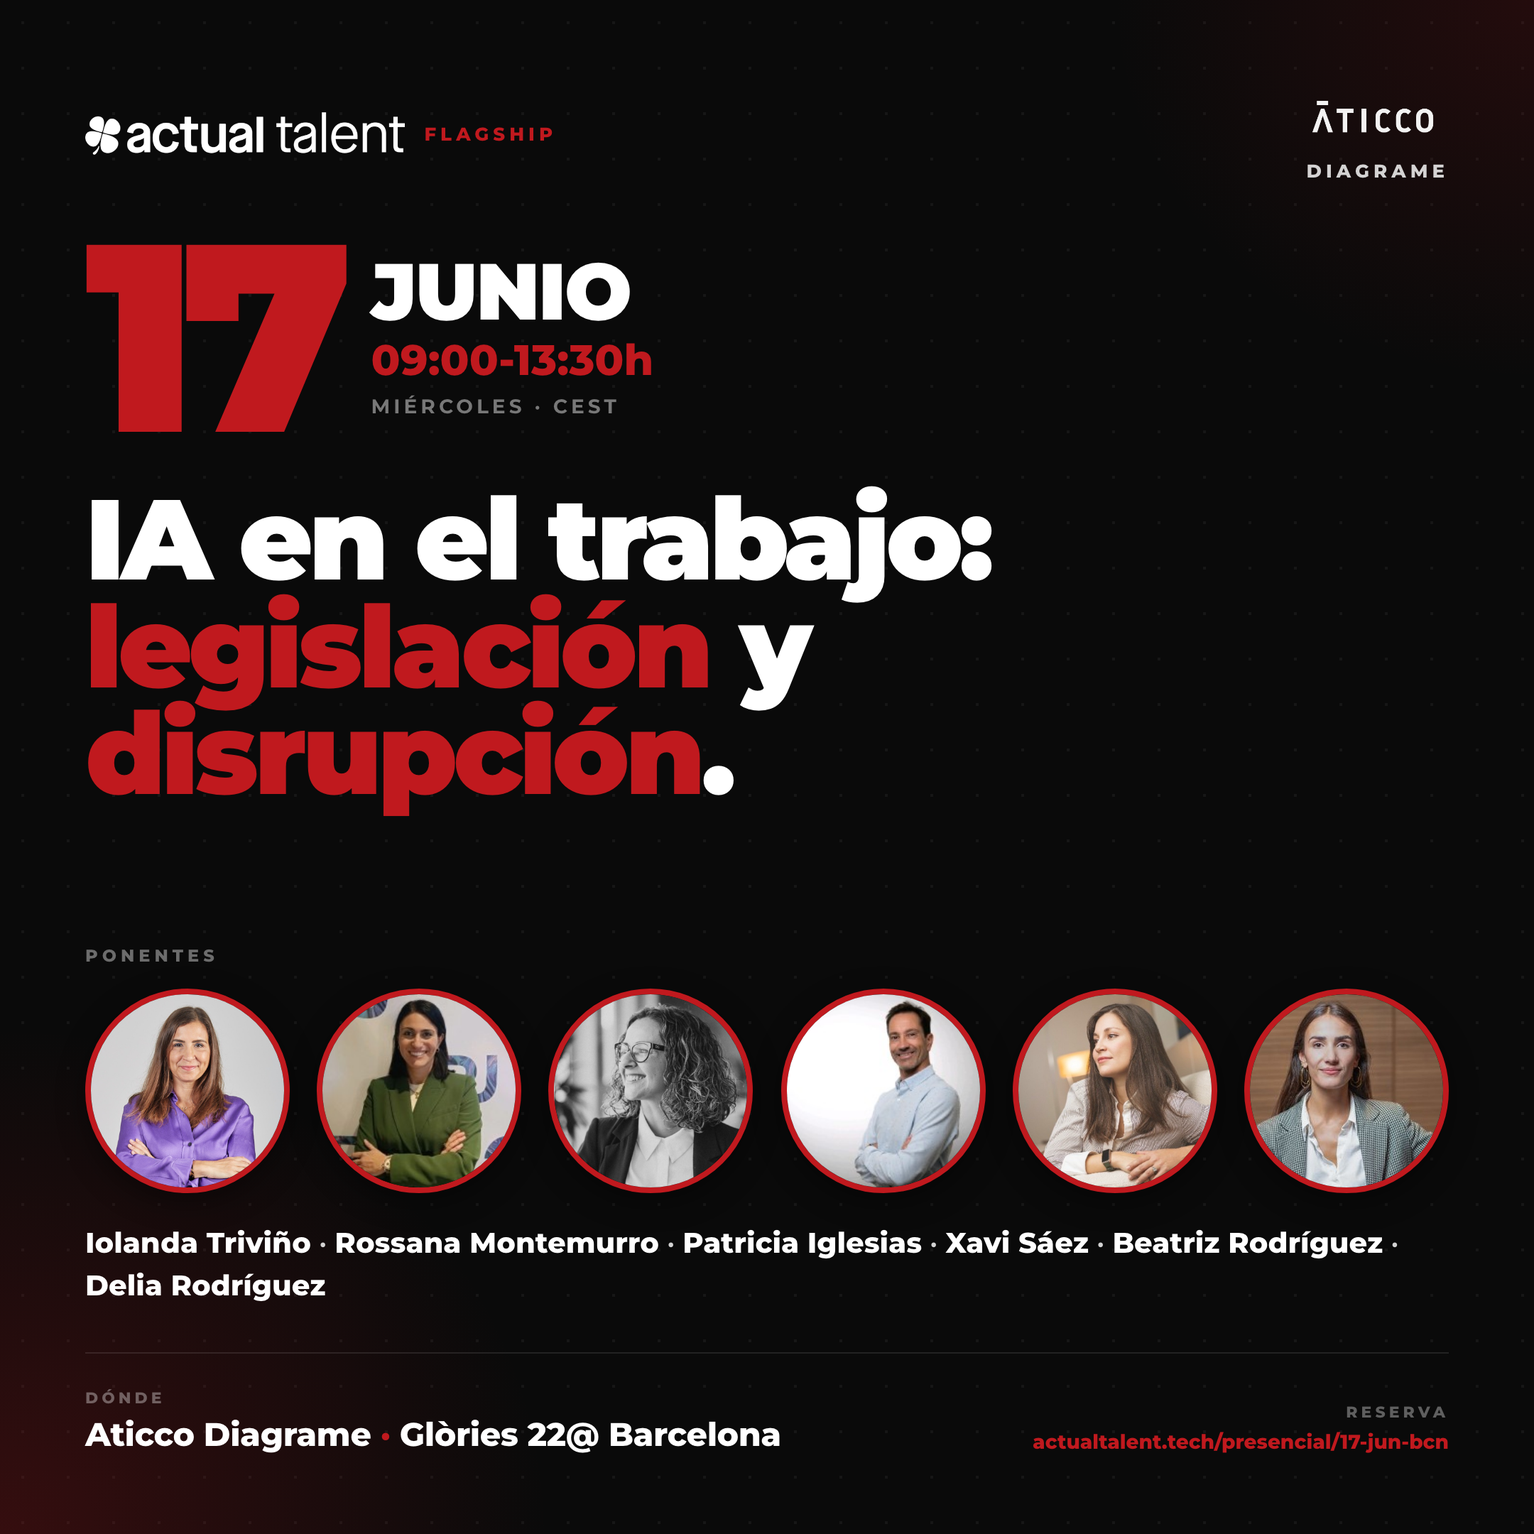
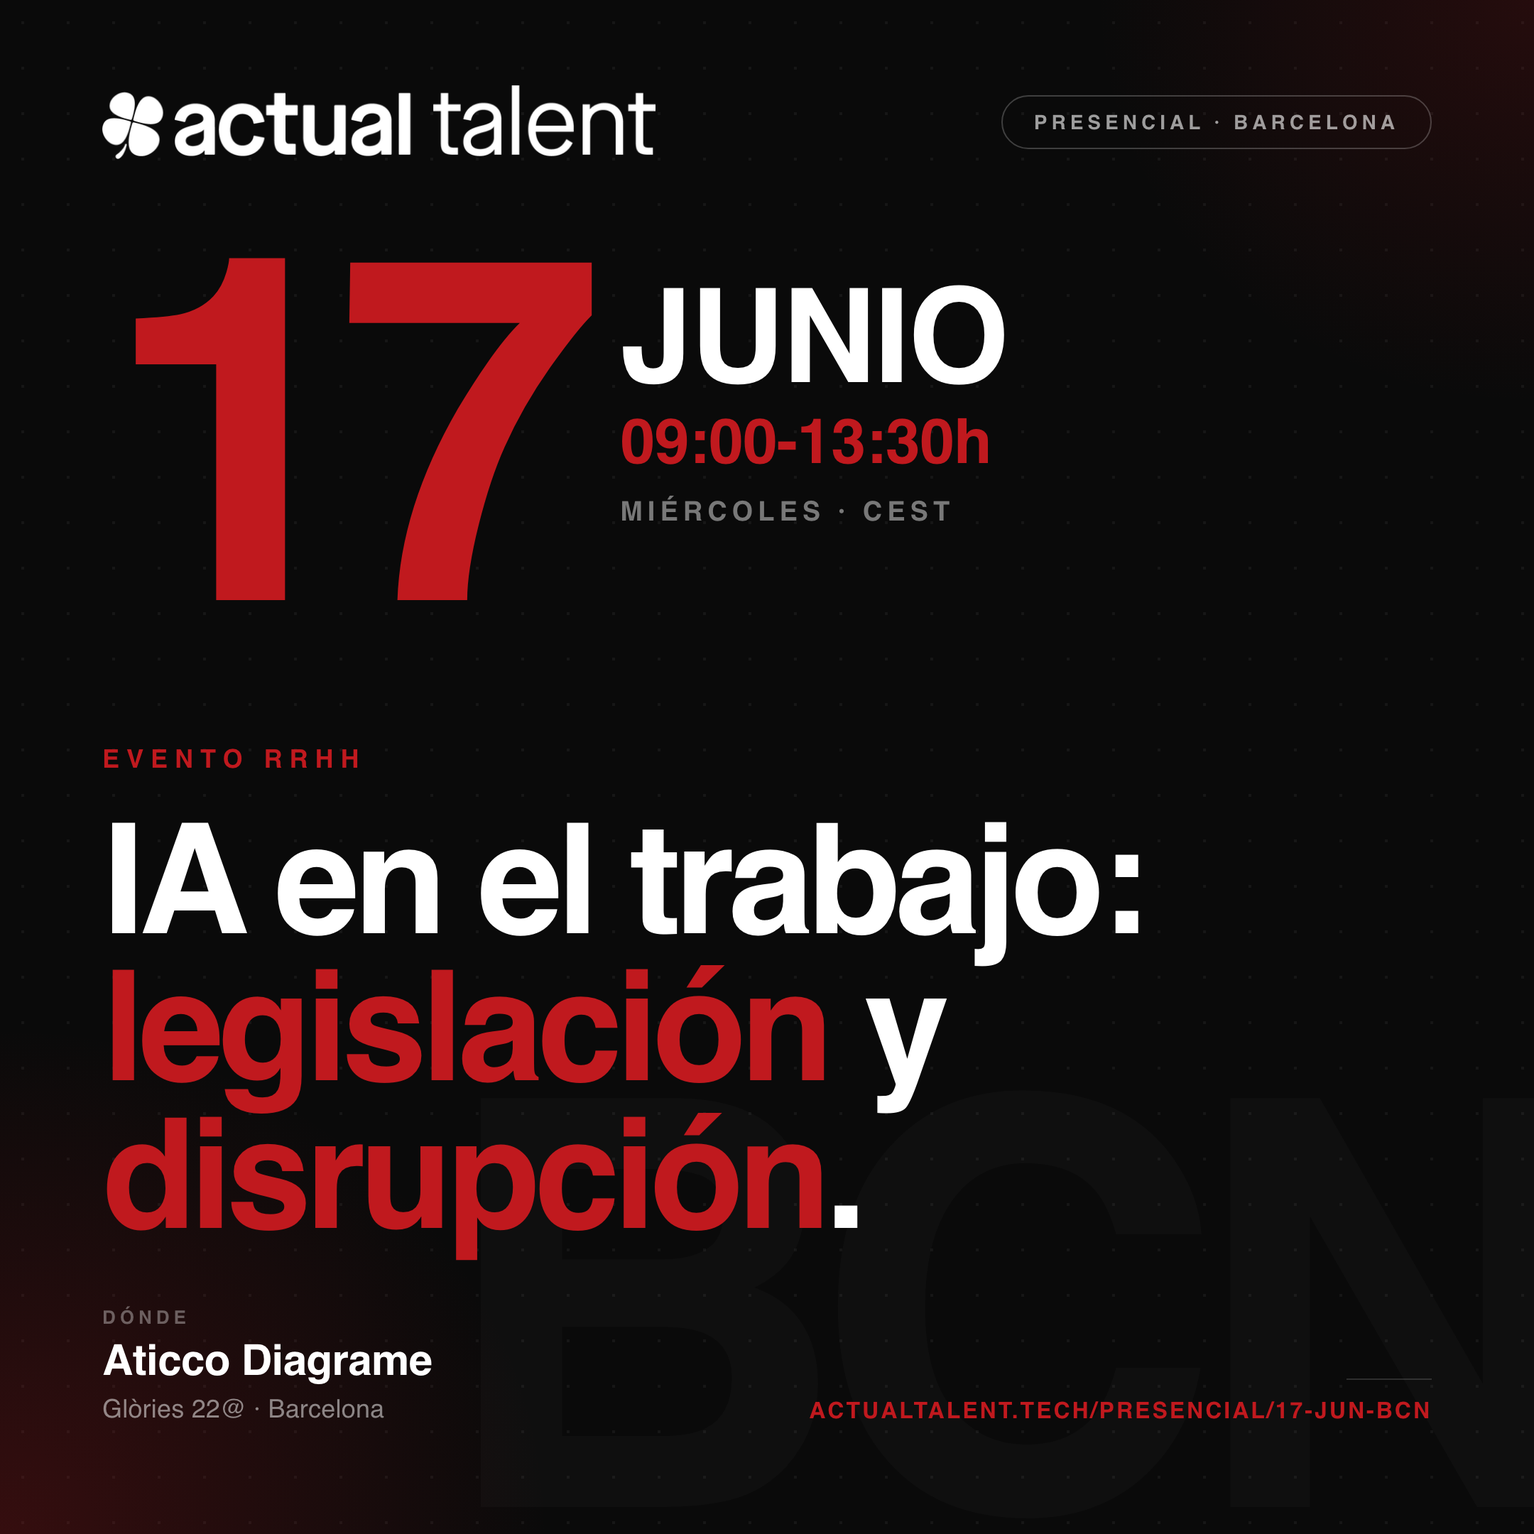
session-end: 4 files (2026-06-09 07:09)

diff --git a/presencial/17-jun-bcn/flyer-square/index.html b/presencial/17-jun-bcn/flyer-square/index.html
@@ -2,98 +2,84 @@
 <html lang="es">
 <head>
 <meta charset="UTF-8">
+<meta name="viewport" content="width=device-width, initial-scale=1.0">
 <title>Flyer 1080×1080 · IA en el trabajo: Legislación y disrupción · 17 jun 2026 · Barcelona</title>
 <link rel="preconnect" href="https://fonts.googleapis.com">
 <link href="https://fonts.googleapis.com/css2?family=Montserrat:wght@400;500;600;700;800;900&display=swap" rel="stylesheet">
 <style>
 *,*::before,*::after{box-sizing:border-box;margin:0;padding:0}
 :root{--red:#C0191E;--black:#1A1A1A;--near-black:#0A0A0A;--white:#fff}
-body{font-family:'Montserrat',sans-serif;background:#000;-webkit-font-smoothing:antialiased;display:flex;align-items:center;justify-content:center;min-height:100vh}
+body{font-family:'Montserrat',sans-serif;background:#1A1A1A;-webkit-font-smoothing:antialiased;min-height:100vh;display:flex;align-items:center;justify-content:center;padding:20px}
 .flyer{width:1080px;height:1080px;flex-shrink:0;position:relative;overflow:hidden;background:var(--near-black);
-  background-image:radial-gradient(circle,rgba(255,255,255,.05) 1.2px,transparent 1.2px);background-size:32px 32px;color:var(--white)}
-@media (max-width:1120px),(max-height:1120px){body{padding:0}.flyer{transform:scale(min(calc(100vw/1080),calc(100vh/1080)));transform-origin:center}}
+  background-image:radial-gradient(circle,rgba(255,255,255,.05) 1.2px,transparent 1.2px);background-size:32px 32px;color:var(--white);transform-origin:center}
+@media (max-width:1120px),(max-height:1120px){body{padding:0;background:#000}.flyer{transform:scale(min(calc(100vw/1080),calc(100vh/1080)))}}
+/* ATMOSPHERE */
 .flyer::before{content:'';position:absolute;inset:0;background:
   radial-gradient(ellipse 65% 60% at 0% 100%,rgba(192,25,30,.24) 0%,transparent 55%),
-  radial-gradient(ellipse 50% 45% at 100% 0%,rgba(192,25,30,.14) 0%,transparent 55%);pointer-events:none;z-index:1}
-.wrap{position:absolute;inset:0;z-index:5;padding:60px 60px 56px;display:flex;flex-direction:column}
-.topbar{display:flex;align-items:center;justify-content:space-between}
-.brand{display:flex;align-items:center;gap:14px}
-.at-logo{width:48px;height:48px;border-radius:11px;background:var(--red);display:flex;align-items:center;justify-content:center;font-size:16px;font-weight:900;letter-spacing:1px}
-.brand-text{font-size:14px;font-weight:800;letter-spacing:3px;text-transform:uppercase}
-.brand-text .sep{color:rgba(255,255,255,.25);margin:0 9px}.brand-text .t{color:var(--red)}
-.brand-logo{height:30px;width:auto;display:block}
-.brand-tag{font-size:13px;font-weight:800;letter-spacing:3px;text-transform:uppercase;color:var(--red)}
-.tag{font-size:11px;font-weight:800;letter-spacing:2.5px;text-transform:uppercase;color:rgba(255,255,255,.6);border:1px solid rgba(255,255,255,.2);border-radius:100px;padding:7px 15px}
-.venue-credit{display:flex;flex-direction:column;align-items:flex-end;gap:6px}
-.venue-logo{height:46px;width:auto;filter:brightness(0) invert(1);opacity:.95;display:block}
-.venue-name{font-size:13px;font-weight:800;letter-spacing:3px;text-transform:uppercase;color:rgba(255,255,255,.82)}
-.date{display:flex;align-items:center;gap:24px;margin-top:34px}
-.date-num{font-size:188px;font-weight:900;line-height:.8;color:var(--red);letter-spacing:-.06em}
-.date-side{display:flex;flex-direction:column;gap:5px}
-.date-month{font-size:56px;font-weight:900;line-height:.9;text-transform:uppercase;letter-spacing:-.02em}
-.date-time{font-size:30px;font-weight:800;color:var(--red)}
-.date-tz{font-size:14px;font-weight:700;letter-spacing:2.5px;text-transform:uppercase;color:rgba(255,255,255,.45)}
-.title{font-size:80px;font-weight:900;line-height:.94;letter-spacing:-.035em;margin-top:30px}
-.title .a{color:var(--red)}
-.lineup{margin-top:auto;padding-top:30px}
-.lineup-label{font-size:12px;font-weight:800;letter-spacing:3px;text-transform:uppercase;color:rgba(255,255,255,.4);margin-bottom:16px}
-.faces{display:flex;gap:16px;justify-content:space-between}
-.faces .f{width:144px;height:144px;border-radius:50%;overflow:hidden;border:4px solid var(--red);box-shadow:0 6px 20px rgba(0,0,0,.4)}
-.faces .f img{width:100%;height:100%;object-fit:cover;display:block}
-.names{font-size:20px;font-weight:600;color:rgba(255,255,255,.82);margin-top:20px;line-height:1.5;max-width:960px}
-.names b{color:var(--white);font-weight:800}
-.footer{display:flex;align-items:flex-end;justify-content:space-between;margin-top:32px;gap:24px;border-top:1px solid rgba(255,255,255,.1);padding-top:24px}
-.f-label{font-size:11px;font-weight:800;letter-spacing:2.5px;text-transform:uppercase;color:rgba(255,255,255,.35);margin-bottom:5px}
-.f-venue{font-size:23px;font-weight:800;letter-spacing:-.01em}.f-venue .d{color:var(--red)}
-.f-cta{text-align:right}.f-url{font-size:14px;font-weight:800;color:var(--red)}
+  radial-gradient(ellipse 52% 48% at 100% 0%,rgba(192,25,30,.15) 0%,transparent 55%);pointer-events:none;z-index:1}
+/* WATERMARK */
+.flyer::after{content:'BCN';position:absolute;bottom:-4%;right:-2%;font-size:400px;font-weight:900;letter-spacing:-.06em;
+  color:rgba(255,255,255,.025);line-height:1;pointer-events:none;user-select:none;z-index:1}
+/* TOP BAR */
+.topbar{position:absolute;top:60px;left:72px;right:72px;display:flex;align-items:center;justify-content:space-between;z-index:10}
+.brand-logo{height:52px;width:auto;display:block}
+.format-tag{font-size:14px;font-weight:800;letter-spacing:3px;text-transform:uppercase;color:rgba(255,255,255,.6);
+  border:1px solid rgba(255,255,255,.22);border-radius:100px;padding:10px 22px}
+/* DATE BLOCK */
+.date-block{position:absolute;top:166px;left:72px;display:flex;align-items:flex-start;gap:34px;z-index:5}
+.date-num{font-size:340px;font-weight:900;line-height:.82;color:var(--red);letter-spacing:-.07em}
+.date-side{display:flex;flex-direction:column;padding-top:30px;gap:10px}
+.date-month{font-size:92px;font-weight:900;line-height:.9;color:var(--white);letter-spacing:-.02em;text-transform:uppercase}
+.date-time{font-size:44px;font-weight:800;color:var(--red);letter-spacing:-.01em;line-height:1}
+.date-tz{font-size:19px;font-weight:700;letter-spacing:3.5px;text-transform:uppercase;color:rgba(255,255,255,.45);margin-top:6px}
+/* TITLE */
+.title-wrap{position:absolute;top:524px;left:72px;right:72px;z-index:5}
+.title-eyebrow{font-size:18px;font-weight:800;letter-spacing:5px;text-transform:uppercase;color:var(--red);margin-bottom:24px}
+.title{font-size:108px;font-weight:900;line-height:.96;letter-spacing:-.04em;color:var(--white)}
+.title .accent{color:var(--red)}
+/* FOOTER */
+.venue{position:absolute;bottom:78px;left:72px;z-index:5;display:flex;flex-direction:column;gap:7px}
+.venue-label{font-size:13px;font-weight:800;letter-spacing:3px;text-transform:uppercase;color:rgba(255,255,255,.35)}
+.venue-name{font-size:30px;font-weight:800;color:var(--white);letter-spacing:-.01em;line-height:1.08}
+.venue-addr{font-size:18px;font-weight:500;color:rgba(255,255,255,.5);letter-spacing:.1px}
+.cta{position:absolute;bottom:78px;right:72px;text-align:right;z-index:5;display:flex;flex-direction:column;align-items:flex-end;gap:8px}
+.cta-divider{width:60px;height:1px;background:rgba(255,255,255,.15);margin-bottom:4px}
+.cta-url{font-size:16px;font-weight:800;letter-spacing:1.5px;color:var(--red);text-transform:uppercase}
 </style>
 </head>
 <body>
 <div class="flyer">
-  <div class="wrap">
-    <div class="topbar">
-      <div class="brand"><img class="brand-logo" src="../../../assets/logos/actual-talent-white.png" alt="Actual Talent"><span class="brand-tag">Flagship</span></div>
-      <div class="venue-credit">
-        <img class="venue-logo" src="../../../assets/logos/aticco.png" alt="Aticco">
-        <div class="venue-name">Diagrame</div>
-      </div>
-    </div>
 
-    <div class="date">
-      <div class="date-num">17</div>
-      <div class="date-side">
-        <div class="date-month">Junio</div>
-        <div class="date-time">09:00-13:30h</div>
-        <div class="date-tz">Miércoles · CEST</div>
-      </div>
-    </div>
+  <div class="topbar">
+    <img class="brand-logo" src="../../../assets/logos/actual-talent-white.png" alt="Actual Talent">
+    <div class="format-tag">Presencial · Barcelona</div>
+  </div>
 
-    <h1 class="title">IA en el trabajo:<br><span class="a">legislación</span> y <span class="a">disrupción</span>.</h1>
-
-    <div class="lineup">
-      <div class="lineup-label">Ponentes</div>
-      <div class="faces">
-        <div class="f"><img src="../../../webinar/assets/speakers/iolanda-trivino.jpg"></div>
-        <div class="f"><img src="../../../webinar/assets/speakers/rossana-montemurro.jpg"></div>
-        <div class="f"><img src="../../../webinar/assets/speakers/patricia-iglesias.jpg"></div>
-        <div class="f"><img src="../../../webinar/assets/speakers/xavi-saez.jpg"></div>
-        <div class="f"><img src="../../../webinar/assets/speakers/beatriz-rodriguez.jpg"></div>
-        <div class="f"><img src="../../../webinar/assets/speakers/delia-rodriguez.jpg"></div>
-      </div>
-      <div class="names"><b>Iolanda Triviño</b> · <b>Rossana Montemurro</b> · <b>Patricia Iglesias</b> · <b>Xavi Sáez</b> · <b>Beatriz Rodríguez</b> · <b>Delia Rodríguez</b></div>
-    </div>
-
-    <div class="footer">
-      <div>
-        <div class="f-label">Dónde</div>
-        <div class="f-venue">Aticco Diagrame <span class="d">·</span> Glòries 22@ Barcelona</div>
-      </div>
-      <div class="f-cta">
-        <div class="f-label">Reserva</div>
-        <div class="f-url">actualtalent.tech/presencial/17-jun-bcn</div>
-      </div>
+  <div class="date-block">
+    <div class="date-num">17</div>
+    <div class="date-side">
+      <div class="date-month">Junio</div>
+      <div class="date-time">09:00-13:30h</div>
+      <div class="date-tz">Miércoles · CEST</div>
     </div>
   </div>
+
+  <div class="title-wrap">
+    <div class="title-eyebrow">Evento RRHH</div>
+    <h1 class="title">IA en el trabajo:<br><span class="accent">legislación</span> y<br><span class="accent">disrupción</span>.</h1>
+  </div>
+
+  <div class="venue">
+    <div class="venue-label">Dónde</div>
+    <div class="venue-name">Aticco Diagrame</div>
+    <div class="venue-addr">Glòries 22@ · Barcelona</div>
+  </div>
+
+  <div class="cta">
+    <div class="cta-divider"></div>
+    <div class="cta-url">actualtalent.tech/presencial/17-jun-bcn</div>
+  </div>
+
 </div>
 </body>
 </html>

diff --git a/presencial/17-jun-bcn/flyer-linkedin/index.html b/presencial/17-jun-bcn/flyer-linkedin/index.html
@@ -14,46 +14,41 @@ body{font-family:'Montserrat',sans-serif;background:#000;-webkit-font-smoothing:
   background-image:radial-gradient(circle,rgba(255,255,255,.05) 1.2px,transparent 1.2px);background-size:32px 32px;color:var(--white)}
 @media (max-width:1320px),(max-height:760px){body{padding:0}.flyer{transform:scale(min(calc(100vw/1280),calc(100vh/720)));transform-origin:center}}
 .flyer::before{content:'';position:absolute;inset:0;background:
-  radial-gradient(ellipse 60% 65% at 0% 100%,rgba(192,25,30,.20) 0%,transparent 55%),
-  radial-gradient(ellipse 40% 45% at 100% 0%,rgba(192,25,30,.12) 0%,transparent 55%);pointer-events:none;z-index:1}
-.wrap{position:absolute;inset:0;z-index:5;padding:26px 50px 22px;display:flex;flex-direction:column}
+  radial-gradient(ellipse 60% 65% at 0% 100%,rgba(192,25,30,.22) 0%,transparent 55%),
+  radial-gradient(ellipse 42% 48% at 100% 0%,rgba(192,25,30,.14) 0%,transparent 55%);pointer-events:none;z-index:1}
+.wrap{position:absolute;inset:0;z-index:5;padding:22px 58px;display:flex;flex-direction:column}
 .topbar{display:flex;align-items:center;justify-content:space-between;flex:0 0 auto}
-.brand-mark{display:flex;align-items:center;gap:13px}
-.brand-logo{height:30px;width:auto;display:block}
-.brand-tag{font-size:13px;font-weight:800;letter-spacing:3px;text-transform:uppercase;color:var(--red)}
-.venue-credit{text-align:right;line-height:1.15}
-.venue-logo{height:80px;width:auto;filter:brightness(0) invert(1);opacity:.95;display:block;margin:0 0 8px auto}
+.brand-mark{display:flex;align-items:center;gap:15px;margin-top:-36px}
+.brand-logo{height:40px;width:auto;display:block}
+.venue-credit{text-align:right;line-height:1.1}
+.venue-logo{height:64px;width:auto;filter:brightness(0) invert(1);opacity:.95;display:block;margin:0 0 6px auto}
 .venue-name{font-size:13px;font-weight:800;letter-spacing:3px;text-transform:uppercase;color:rgba(255,255,255,.85)}
-.main{flex:1 1 auto;display:flex;flex-direction:column;justify-content:center;gap:20px;min-height:0}
-.hero{display:flex;gap:40px;align-items:center}
-.date-block{flex-shrink:0}
-.date-num{font-size:80px;font-weight:900;line-height:.8;color:var(--red);letter-spacing:-.05em}
-.date-side{display:flex;flex-direction:column;gap:3px;margin-top:6px}
-.date-month{font-size:28px;font-weight:900;line-height:1;text-transform:uppercase;letter-spacing:-.01em}
-.date-time{font-size:19px;font-weight:800;color:var(--red)}
-.date-tz{font-size:12px;font-weight:700;letter-spacing:2.5px;text-transform:uppercase;color:rgba(255,255,255,.5)}
-.title-wrap{flex:1}
-.eyebrow{font-size:13px;font-weight:800;letter-spacing:4px;text-transform:uppercase;color:var(--red);margin-bottom:10px}
-.title{font-size:47px;font-weight:900;line-height:1.02;letter-spacing:-.035em}
+.main{flex:1 1 auto;display:flex;flex-direction:column;justify-content:space-between;min-height:0;margin-top:-34px}
+.hero{display:flex;gap:30px;align-items:center}
+.date-block{flex-shrink:0;display:flex;align-items:flex-start;gap:16px}
+.date-num{font-size:152px;font-weight:900;line-height:.76;color:var(--red);letter-spacing:-.06em}
+.date-side{display:flex;flex-direction:column;gap:6px;margin-top:10px}
+.date-month{font-size:47px;font-weight:900;line-height:.9;text-transform:uppercase;letter-spacing:-.02em}
+.date-time{font-size:29px;font-weight:800;color:var(--red)}
+.date-tz{font-size:15px;font-weight:700;letter-spacing:2.5px;text-transform:uppercase;color:rgba(255,255,255,.5)}
+.title-wrap{flex:1;border-left:4px solid rgba(192,25,30,.55);padding-left:32px}
+.title{font-size:68px;font-weight:900;line-height:1.02;letter-spacing:-.045em}
 .title .accent{color:var(--red)}
-.speakers{display:grid;grid-template-columns:repeat(4,1fr);gap:12px 24px}
+.speakers{display:grid;grid-template-columns:repeat(4,1fr);gap:14px 22px}
 .speaker{display:flex;flex-direction:column;align-items:center;text-align:center}
-.sp-photo{width:90px;height:90px;border-radius:50%;overflow:hidden;border:3px solid var(--red);box-shadow:0 8px 24px rgba(0,0,0,.5);margin-bottom:8px}
+.sp-photo{width:136px;height:136px;border-radius:50%;overflow:hidden;border:4px solid var(--red);box-shadow:0 10px 28px rgba(0,0,0,.55);margin-bottom:12px}
 .sp-photo.host{border-color:#fff}
 .sp-photo img{width:100%;height:100%;object-fit:cover;display:block}
-.sp-name{font-size:21px;font-weight:800;line-height:1.1;margin-bottom:3px}
-.sp-cargo{font-size:14px;font-weight:700;letter-spacing:.2px;color:var(--red);line-height:1.2;margin-bottom:2px;min-height:34px;display:flex;align-items:center;justify-content:center}
-.sp-org{font-size:12.5px;font-weight:600;letter-spacing:.3px;color:rgba(255,255,255,.6)}
-.footer{flex:0 0 auto;text-align:center;padding-top:10px}
-.footer .u{font-size:13px;font-weight:600;letter-spacing:.3px;color:rgba(255,255,255,.55)}
-.footer .u .link{color:var(--red);font-weight:700}.footer .u .sep{color:rgba(255,255,255,.25);margin:0 10px}
+.sp-name{font-size:28px;font-weight:800;line-height:1.04;margin-bottom:6px;white-space:nowrap}
+.sp-cargo{font-size:17px;font-weight:700;letter-spacing:.2px;color:var(--red);line-height:1.16}
+.sp-org{font-size:15px;font-weight:600;letter-spacing:.3px;color:rgba(255,255,255,.62);line-height:1.15}
 </style>
 </head>
 <body>
 <div class="flyer">
   <div class="wrap">
     <div class="topbar">
-      <div class="brand-mark"><img class="brand-logo" src="../../../assets/logos/actual-talent-white.png" alt="Actual Talent"><span class="brand-tag">Flagship</span></div>
+      <div class="brand-mark"><img class="brand-logo" src="../../../assets/logos/actual-talent-white.png" alt="Actual Talent"></div>
       <div class="venue-credit">
         <img class="venue-logo" src="../../../assets/logos/aticco.png" alt="Aticco">
         <div class="venue-name">Diagrame</div>
@@ -71,7 +66,6 @@ body{font-family:'Montserrat',sans-serif;background:#000;-webkit-font-smoothing:
           </div>
         </div>
         <div class="title-wrap">
-          <div class="eyebrow">Evento flagship · RRHH</div>
           <h1 class="title">IA en el trabajo:<br><span class="accent">legislación</span> y <span class="accent">disrupción</span>.</h1>
         </div>
       </div>
@@ -81,15 +75,11 @@ body{font-family:'Montserrat',sans-serif;background:#000;-webkit-font-smoothing:
         <div class="speaker"><div class="sp-photo"><img src="../../../webinar/assets/speakers/rossana-montemurro.jpg" alt="Rossana Montemurro"></div><div class="sp-name">Rossana Montemurro</div><div class="sp-cargo">Chief People &amp; Culture Officer</div><div class="sp-org">Cooltra</div></div>
         <div class="speaker"><div class="sp-photo"><img src="../../../webinar/assets/speakers/patricia-iglesias.jpg" alt="Patricia Iglesias"></div><div class="sp-name">Patricia Iglesias</div><div class="sp-cargo">Chief People &amp; Culture Officer</div><div class="sp-org">Techsoulogy</div></div>
         <div class="speaker"><div class="sp-photo"><img src="../../../webinar/assets/speakers/xavi-saez.jpg" alt="Xavi Sáez"></div><div class="sp-name">Xavi Sáez</div><div class="sp-cargo">Co-founder &amp; CEO</div><div class="sp-org">KPI</div></div>
-        <div class="speaker"><div class="sp-photo"><img src="../../../webinar/assets/speakers/beatriz-rodriguez.jpg" alt="Beatriz Rodríguez"></div><div class="sp-name">Beatriz Rodríguez</div><div class="sp-cargo">Socia · Protección de Datos</div><div class="sp-org">RocaJunyent</div></div>
-        <div class="speaker"><div class="sp-photo"><img src="../../../webinar/assets/speakers/delia-rodriguez.jpg" alt="Delia Rodríguez"></div><div class="sp-name">Delia Rodríguez</div><div class="sp-cargo">Abogada · Protección de Datos</div><div class="sp-org">RocaJunyent</div></div>
+        <div class="speaker"><div class="sp-photo"><img src="../../../webinar/assets/speakers/beatriz-rodriguez.jpg" alt="Beatriz Rodríguez"></div><div class="sp-name">Beatriz Rodríguez</div><div class="sp-cargo">Socia</div><div class="sp-org">RocaJunyent</div></div>
+        <div class="speaker"><div class="sp-photo"><img src="../../../webinar/assets/speakers/delia-rodriguez.jpg" alt="Delia Rodríguez"></div><div class="sp-name">Delia Rodríguez</div><div class="sp-cargo">Abogada</div><div class="sp-org">RocaJunyent</div></div>
         <div class="speaker"><div class="sp-photo host"><img src="../../../webinar/assets/speakers/karim-barmose.jpg" alt="Karim Barmose"></div><div class="sp-name">Karim Barmose</div><div class="sp-cargo">Director RPO Solutions</div><div class="sp-org">Actual Talent</div></div>
-        <div class="speaker"><div class="sp-photo host"><img src="../../../webinar/assets/speakers/joan-boluda.jpg" alt="Joan Boluda"></div><div class="sp-name">Joan Boluda</div><div class="sp-cargo">Business Development Manager RPO</div><div class="sp-org">Actual Talent</div></div>
+        <div class="speaker"><div class="sp-photo host"><img src="../../../webinar/assets/speakers/joan-boluda.jpg" alt="Joan Boluda"></div><div class="sp-name">Joan Boluda</div><div class="sp-cargo">Business Development Manager</div><div class="sp-org">Actual Talent</div></div>
       </div>
-    </div>
-
-    <div class="footer">
-      <div class="u">Aticco Diagrame · Glòries 22@ · C/ Pere IV 105-109, Barcelona<span class="sep">·</span><span class="link">actualtalent.tech/presencial/17-jun-bcn</span></div>
     </div>
   </div>
 </div>
